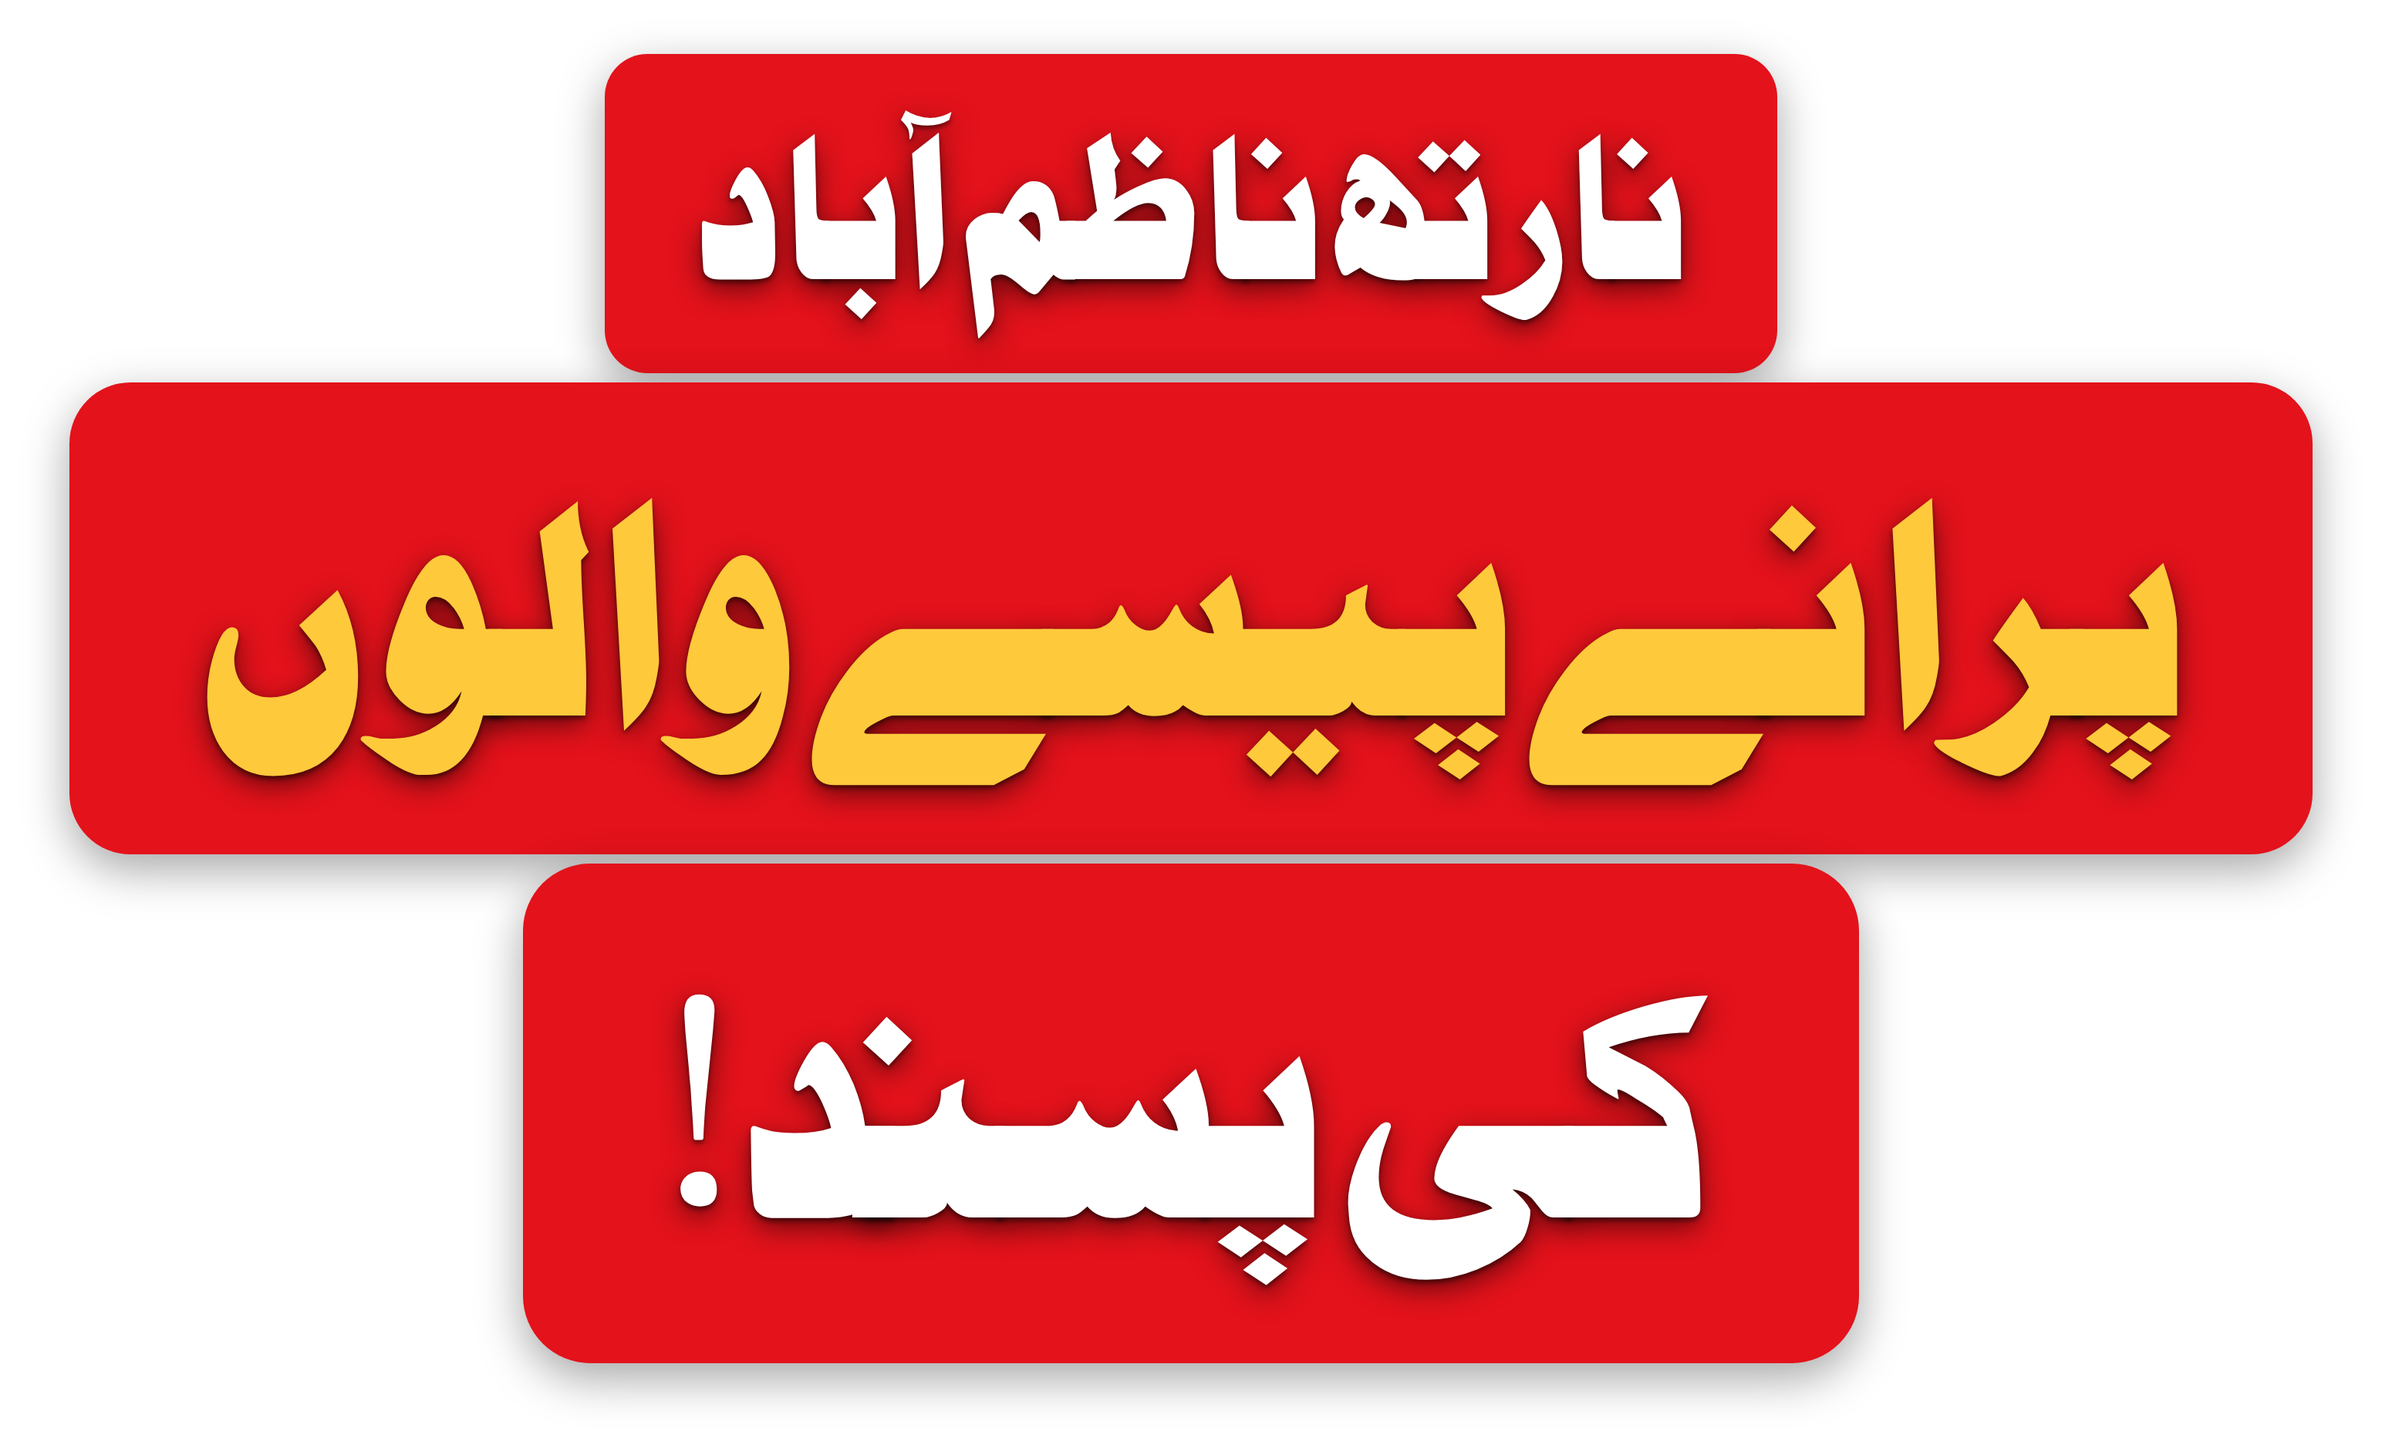
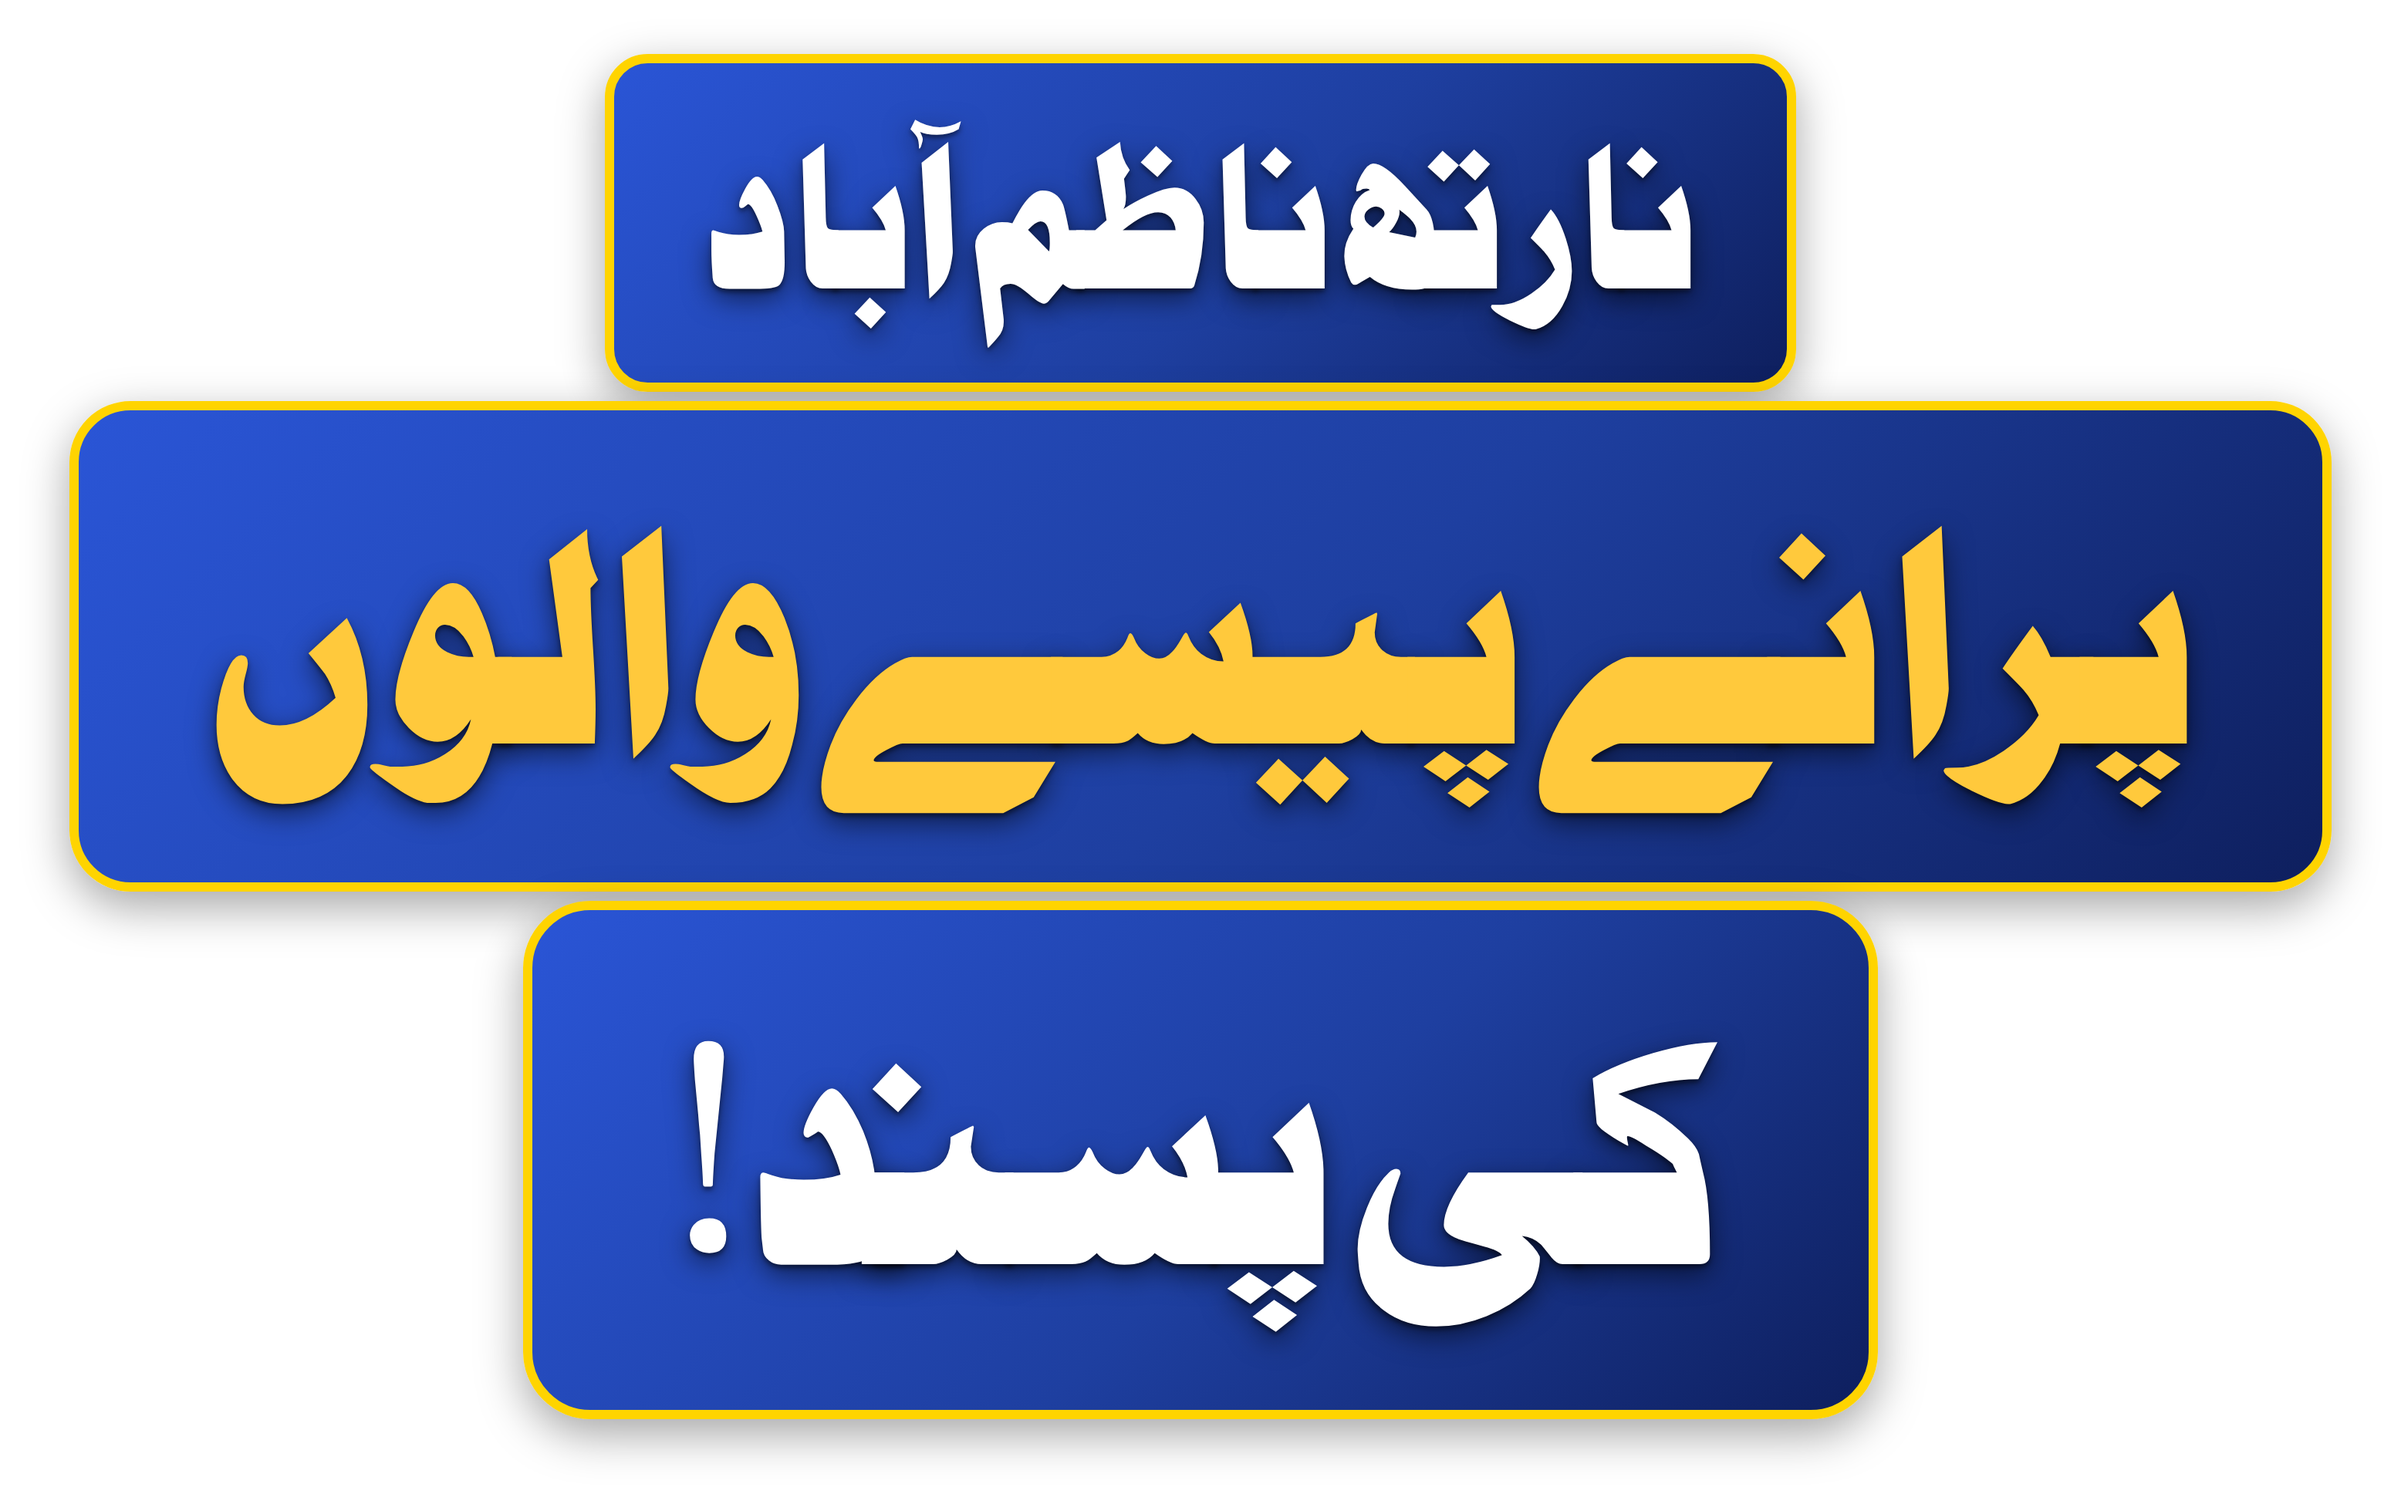
clip-nov26b: blue-gold heading plate; TikTok cover + Facebook thumbnail
Claude-Session: https://claude.ai/code/session_0139To4Bi5mkGo2BmfVPNRP3

diff --git a/tools/posts/nov26b_thumbs.py b/tools/posts/nov26b_thumbs.py
@@ -1,0 +1,68 @@
+#!/usr/bin/env python3
+"""Thumbnails for clip-nov26b (North Nazimabad delivery): TikTok cover 9:16 and Facebook 16:9, Heavy Gold blue + gold."""
+import json, subprocess
+from pathlib import Path
+from PIL import Image
+R = Path(__file__).resolve().parents[2]
+D = R / "Video Edits/Export/clip-nov26b/thumbs"; W = D / "work"
+F = lambda g: str(next(R.joinpath("fonts").rglob(g)))
+fonts = [{"family": "Montserrat", "path": F("Montserrat-900.ttf"), "weight": 900, "style": "normal"},
+         {"family": "Montserrat", "path": F("Montserrat-500.ttf"), "weight": 500, "style": "normal"},
+         {"family": "Aslam", "path": F("Aslam-400.ttf"), "weight": 400, "style": "normal"},
+         {"family": "Noori", "path": F("JameelNooriNastaleeq-400.ttf"), "weight": 400, "style": "normal"}]
+B, G, N = "#1E3FA0", "#FFD400", "#0E1F5E"
+vac, mah = W / "f4.0.jpg", W / "f6.6.jpg"
+hg = R / "Video Edits/Raw/heavy-gold/heavy-gold-bag-cutout.png"
+box = R / "Video Edits/Raw/aftodoll-dispatch/box-cutout.png"
+logo = R / "assets/logos/khyber-traders-wordmark-white-red.png"
+moto = R / "assets/emoji/1f3cd.png"
+base = f"""*{{margin:0;padding:0;box-sizing:border-box}}
+.plate{{direction:rtl;display:inline-block;font-family:Aslam;color:#fff;background:linear-gradient(135deg,#2A55D6,{B} 55%,{N});border:6px solid {G};
+ border-radius:.22em;padding:.02em .4em .14em;box-shadow:0 14px 34px rgba(0,0,0,.45);text-shadow:0 5px 14px rgba(0,0,0,.45);line-height:1.45}}
+.plate i{{font-style:normal;color:{G}}}
+.trip{{display:inline-flex;align-items:center;gap:16px;background:rgba(10,14,40,.78);border:2px solid rgba(255,255,255,.35);border-radius:60px;
+ padding:14px 30px;font:900 30px Montserrat;color:#fff;letter-spacing:1px;box-shadow:0 10px 26px rgba(0,0,0,.35)}}
+.trip .ln{{width:120px;height:5px;background:{G};border-radius:3px}} .trip img{{height:46px}}
+.kt{{display:inline-flex;align-items:center;gap:18px;background:#111;border-radius:50px;padding:12px 26px 12px 22px;box-shadow:0 10px 26px rgba(0,0,0,.35)}}
+.kt img{{height:50px}} .kt b{{background:{G};color:#111;border-radius:30px;padding:8px 18px;font:900 26px Montserrat}}"""
+trip = f'<div class="trip">DENSO HALL <span class="ln"></span><img src="file://{moto}"> NORTH NAZIMABAD</div>'
+kt = f'<div class="kt"><img src="file://{logo}"><b>0310-2999262</b></div>'
+
+tt_css = base + f"""
+#p{{position:absolute;inset:0;overflow:hidden;background:#000}}
+.bg{{position:absolute;inset:0;width:100%;height:100%;object-fit:cover;filter:saturate(1.1)}}
+.shade{{position:absolute;inset:0;background:linear-gradient(180deg,rgba(0,0,0,.55) 0%,rgba(0,0,0,0) 34%,rgba(0,0,0,0) 62%,rgba(0,0,0,.7) 100%)}}
+.h{{position:absolute;top:230px;left:0;right:0;text-align:center;display:flex;flex-direction:column;align-items:center;gap:14px}}
+.h .a{{font-size:70px}} .h .b{{font-size:128px}} .h .c{{font-size:110px}}
+.hg{{position:absolute;right:40px;bottom:500px;height:560px;filter:drop-shadow(0 24px 30px rgba(0,0,0,.5));transform:rotate(6deg)}}
+.vb{{position:absolute;left:60px;bottom:520px;height:430px;filter:drop-shadow(0 24px 30px rgba(0,0,0,.5));transform:rotate(-6deg)}}
+.tr{{position:absolute;bottom:330px;left:0;right:0;text-align:center}}
+.ktw{{position:absolute;bottom:200px;left:0;right:0;text-align:center}}"""
+tt = f"""<div id="p"><img class="bg" src="file://{vac}"><div class="shade"></div>
+<div class="h"><div class="plate a">نارتھ ناظم آباد</div><div class="plate b"><i>پرانے پیسے والوں</i></div><div class="plate c">کی پسند!</div></div>
+<img class="vb" src="file://{box}"><img class="hg" src="file://{hg}">
+<div class="tr">{trip}</div><div class="ktw">{kt}</div></div>"""
+
+fb_css = base + f"""
+#p{{position:absolute;inset:0;overflow:hidden;background:radial-gradient(ellipse 70% 90% at 30% 50%,#2A55D6 0%,{B} 45%,{N} 100%)}}
+.rays{{position:absolute;inset:0;background:repeating-linear-gradient(115deg,rgba(255,255,255,.035) 0 40px,transparent 40px 80px)}}
+.card{{position:absolute;top:70px;height:940px;width:560px;object-fit:cover;border-radius:34px;border:7px solid #fff;box-shadow:0 26px 50px rgba(0,0,0,.5)}}
+.c2{{right:340px;transform:rotate(-5deg)}} .c1{{right:40px;top:110px;transform:rotate(5deg);object-position:60% 0%;z-index:2}}
+.h{{position:absolute;left:70px;top:90px;width:1040px;display:flex;flex-direction:column;align-items:center;gap:12px;text-align:center}}
+.h .a{{font-size:66px}} .h .b{{font-size:118px}} .h .c{{font-size:100px}}
+.prod{{position:absolute;left:150px;bottom:150px;display:flex;align-items:flex-end;gap:10px}}
+.prod .hg{{height:400px;filter:drop-shadow(0 22px 26px rgba(0,0,0,.5))}} .prod .vb{{height:300px;filter:drop-shadow(0 22px 26px rgba(0,0,0,.5))}}
+.plus{{position:absolute;left:520px;bottom:300px;font:900 90px Montserrat;color:{G};text-shadow:0 6px 16px rgba(0,0,0,.5)}}
+.tr{{position:absolute;left:650px;bottom:300px}} .tr .trip{{font-size:24px;padding:12px 22px}} .tr .ln{{width:70px}}
+.ktw{{position:absolute;left:650px;bottom:170px}}"""
+fb = f"""<div id="p"><div class="rays"></div>
+<img class="card c1" src="file://{mah}"><img class="card c2" src="file://{vac}">
+<div class="h"><div class="plate a">نارتھ ناظم آباد</div><div class="plate b"><i>پرانے پیسے والوں</i></div><div class="plate c">کی پسند!</div></div>
+<div class="prod"><img class="hg" src="file://{hg}"><img class="vb" src="file://{box}"></div>
+<div class="tr">{trip}</div><div class="ktw">{kt}</div></div>"""
+
+for name, w, h, css, html in [("tiktok-cover", 1080, 1920, tt_css, tt), ("facebook-thumbnail", 1920, 1080, fb_css, fb)]:
+    job = W / f"{name}.json"; png = W / f"{name}.png"
+    job.write_text(json.dumps({"width": w, "height": h, "scale": 2, "css": css, "fonts": fonts, "states": [{"file": str(png), "html": html}]}))
+    subprocess.run(["node", str(R / "tools/htmlcaps/render.js"), str(job)], check=True, capture_output=True)
+    Image.open(png).convert("RGB").save(D / f"{name}.jpg", quality=95); print(D / f"{name}.jpg")
